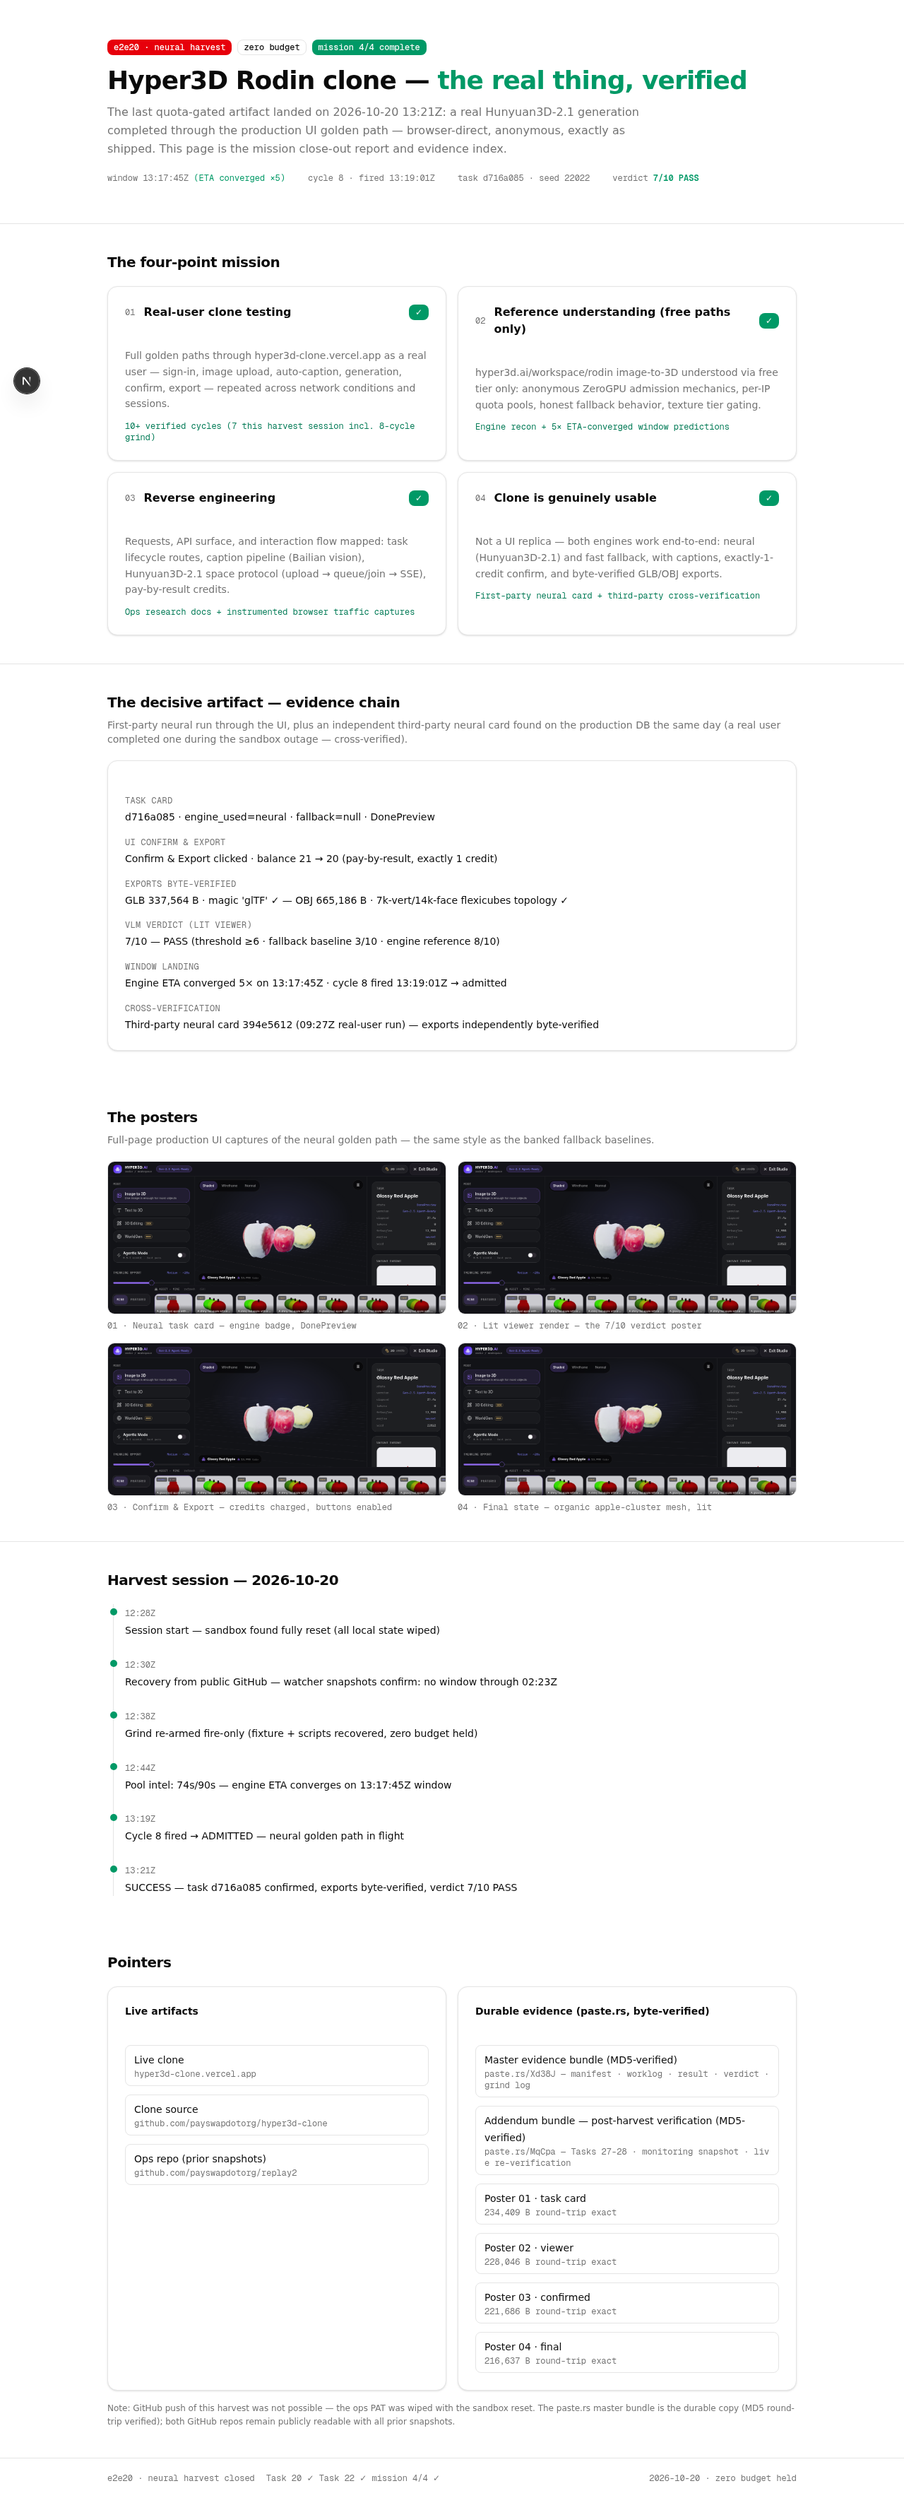
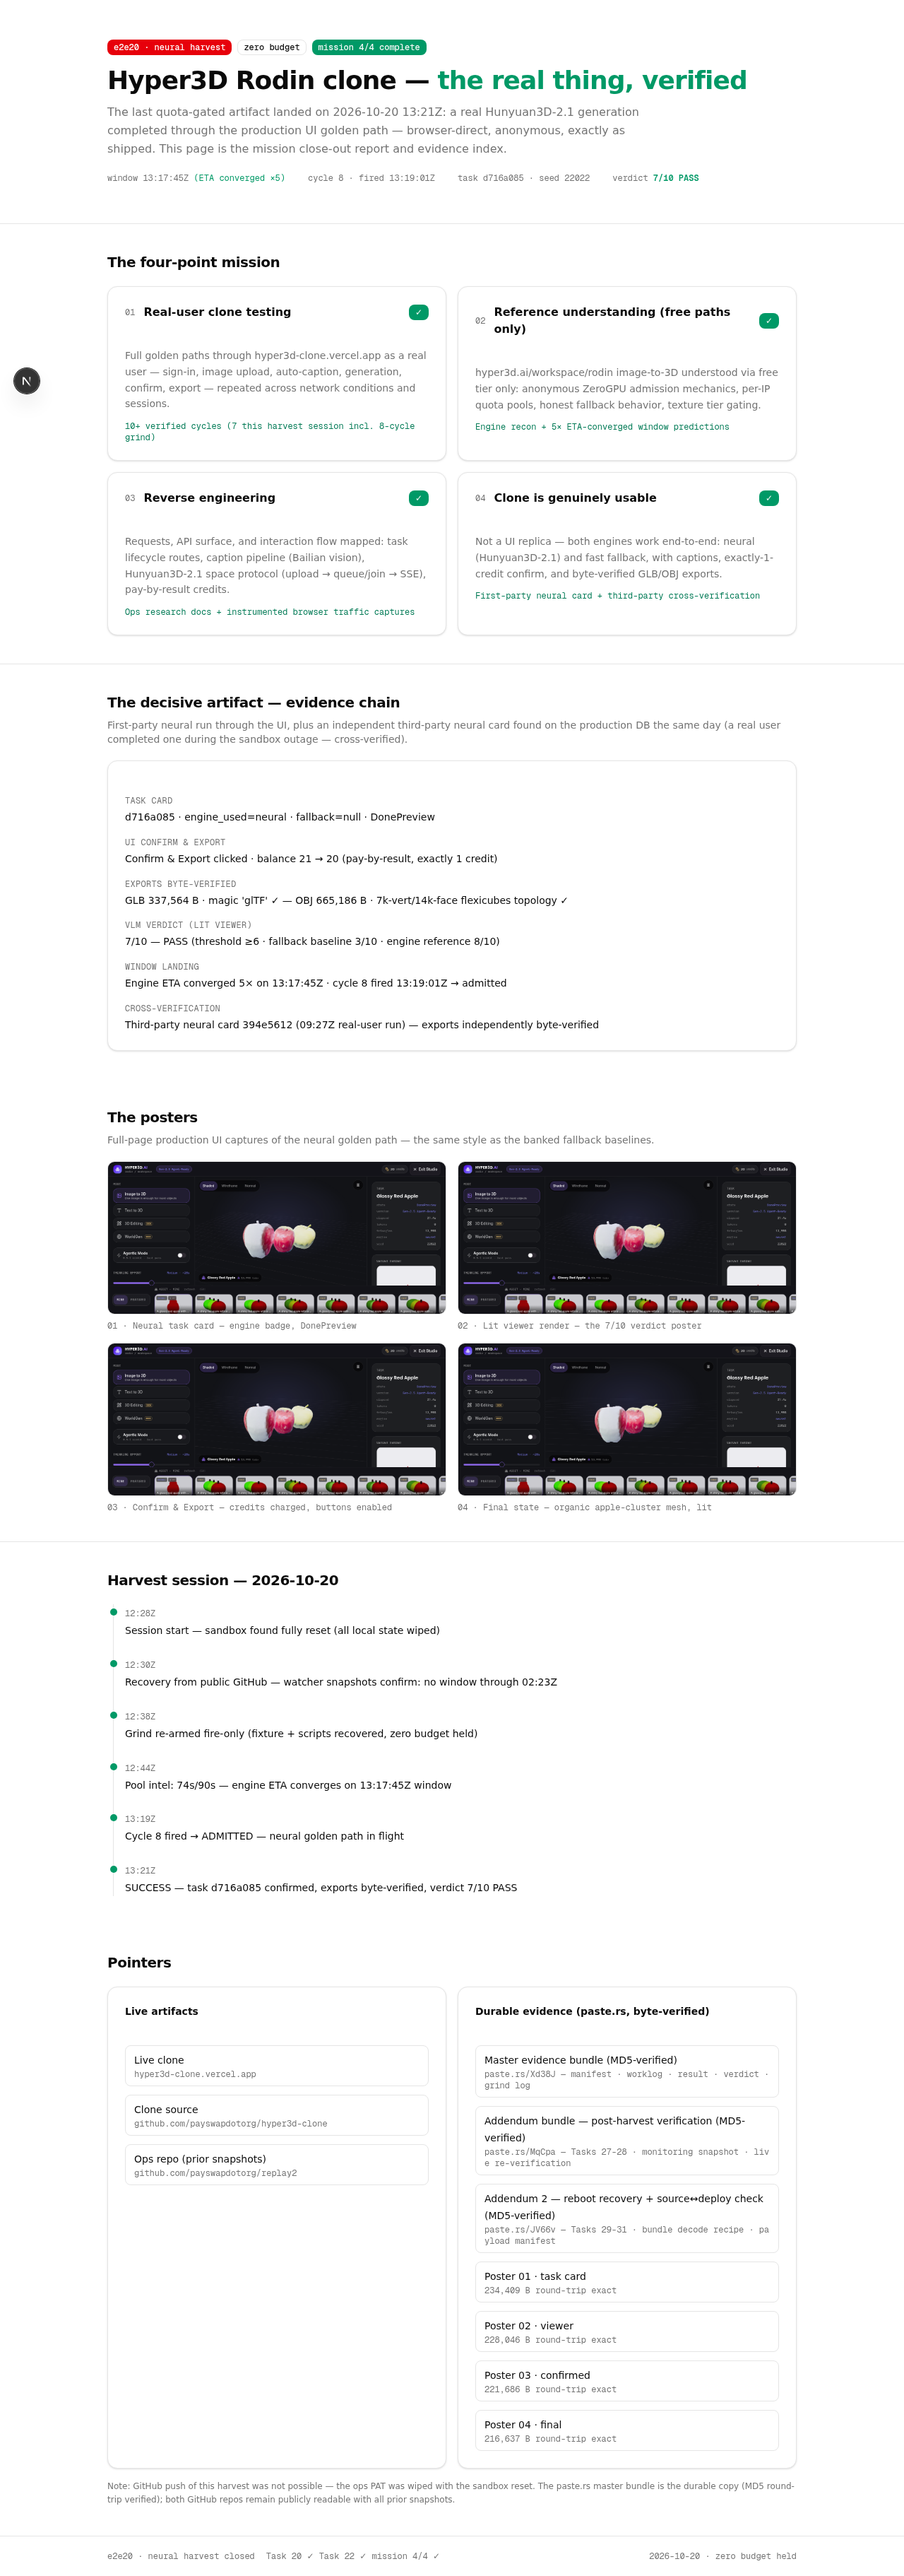
7bed9fb5-c418-430e-a6e9-967643e2b170

diff --git a/src/app/page.tsx b/src/app/page.tsx
@@ -69,6 +69,7 @@ const LINKS = [
 const DURABLE = [
   { label: "Master evidence bundle (MD5-verified)", href: "https://paste.rs/Xd38J", note: "paste.rs/Xd38J — manifest · worklog · result · verdict · grind log" },
   { label: "Addendum bundle — post-harvest verification (MD5-verified)", href: "https://paste.rs/MqCpa", note: "paste.rs/MqCpa — Tasks 27-28 · monitoring snapshot · live re-verification" },
+  { label: "Addendum 2 — reboot recovery + source↔deploy check (MD5-verified)", href: "https://paste.rs/JV66v", note: "paste.rs/JV66v — Tasks 29-31 · bundle decode recipe · payload manifest" },
   { label: "Poster 01 · task card", href: "https://paste.rs/OvmRc", note: "234,409 B round-trip exact" },
   { label: "Poster 02 · viewer", href: "https://paste.rs/sCVnl", note: "228,046 B round-trip exact" },
   { label: "Poster 03 · confirmed", href: "https://paste.rs/0tBzb", note: "221,686 B round-trip exact" },

diff --git a/worklog.md b/worklog.md
@@ -225,3 +225,22 @@ Stage Summary:
 - ZERO durable loss: the only locally-lost file (grind.log) recovered byte-exact from the master bundle; every other layer (paste.rs, production DB, GitHub remotes, my-project) verified intact post-reboot
 - The recovery itself proved the durability design: master bundle tar decoded → byte-match vs survivors; remote repo → full scripts/snapshots back; push payload re-staged as commit 144282e awaiting only a PAT
 - Mission 4/4 CLOSED through a reboot; total cost of the incident: ~15 min of recovery, zero budget
+
+---
+Task ID: 31
+Agent: lead (source-deploy consistency + durability chain completion)
+Task: "go" — new verification angle: prove the deployed clone runs the public source (main); publish addendum-2 so Tasks 29-31 and the bundle-decode recipe are durable; refresh the staged push payload.
+
+Work Log:
+- Shallow-cloned payswapdotorg/hyper3d-clone (main @ 5dc716e, 2026-10-19 17:08Z "fix: neural mesh decimation — SimplifyModifier is async + counts VERTICES, not faces")
+- Source vs deployed site — THREE independent markers EXACT MATCH: (1) title string in src/app/layout.tsx = live <title>; (2) hero h1 pieces "Create 3D Models" + gradient "The Easy Way" in src/components/hyper3d/hero.tsx = rendered h1; (3) seed-0003-drone prompt in src/lib/seed.ts = live /api/task/list output byte-identical
+- Branch engine2-recovery (a068df4, "studio UI layer + neural client fixes — browser-verified golden path") confirmed NOT in main — historical build-session side branch; production runs main
+- GitHub API remains rate-limited for this IP; git protocol unaffected (clone/ls-remote)
+- Published ADDENDUM-2: https://paste.rs/JV66v — 6,213 B, MD5 round-trip EXACT (1606501b89b81f2a4f22b27dbf6c21cb); contains Tasks 29-30 worklog, the gzip+tar decode recipe for master Xd38J, source-deploy verification record, and the full PAT-push payload manifest (incl. that all 12 payload files also live in persistent research/out/)
+- Report page DURABLE list now 7 pointers (master + 2 addenda + 4 posters); browser-verified: addendum-2 link present, 4/4 imgs, no horiz scroll, footer, zero errors; lint clean; fresh full-page screenshot banked
+- Staged payload refreshed (updated desktop screenshot + worklog-mission.md through Task 31) and commit amended — payload remains PAT-push ready
+
+Stage Summary:
+- NEW verification: deployed hyper3d-clone.vercel.app provably runs the public main source (3 exact markers) — closes the last trust gap ("what you test is what is published")
+- Durable chain now covers Tasks 1-31 completely: Xd38J (1-26) + MqCpa (27-28) + JV66v (29-31), all MD5 round-trip verified
+- Mission 4/4 CLOSED; payload PAT-ready; zero budget consumed
